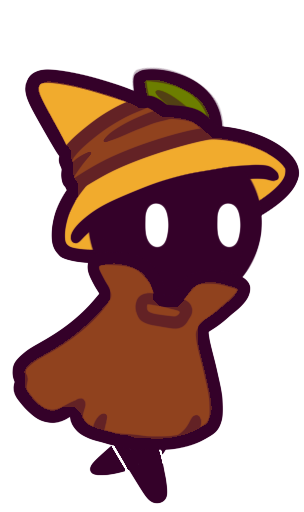
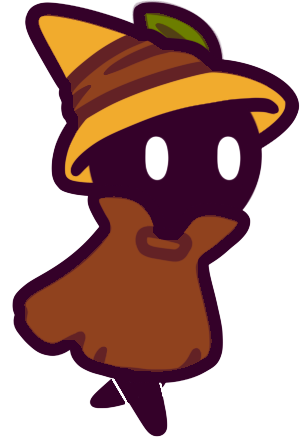
loading...

diff --git a/dino/MainPage.xaml b/dino/MainPage.xaml
@@ -2,6 +2,7 @@
 <ContentPage xmlns="http://schemas.microsoft.com/dotnet/2021/maui"
              xmlns:x="http://schemas.microsoft.com/winfx/2009/xaml"
              x:Class="dino.MainPage"
+             xmlns:FF="clr.namespace:FFImageLoading.Maui;assembly=FFImageLoading.Maui"
              Shell.NavBarIsVisible="False">
 
        <Grid>
@@ -54,12 +55,15 @@
                             HeightRequest="80"/>
               </HorizontalStackLayout>
 
-              <Image Source="player01.png"
-                     x:Name="imgPlayer"
-                     HeightRequest="320"
-                     WidthRequest="100"
-                     HorizontalOptions="Start"
-                     VerticalOptions="End"/>
+              <FF:CachedImageView Source="player01.png"
+                                  CacheType="Disk"
+                                  CacheDuration="365"
+                                  x:Name="imgPlayer"
+                                  Margin="10,0,0,80"
+                                  HeightRequest="150"
+                                  WidthRequest="100"
+                                  HorizontalOptions="Start"
+                                  VerticalOptions="End"/>
 
        </Grid>
 

diff --git a/dino/MainPage.xaml.cs b/dino/MainPage.xaml.cs
@@ -13,6 +13,14 @@ public partial class MainPage : ContentPage
 	int velocidade = 0;
 	int larguraJanela = 0;
 	int alturaJanela = 0;
+	const int forcaGravidade = 6;
+	bool estanoChao = true;
+	bool estanoAr = false;
+	int tempoPulando = 0;
+	int temponoAr = 0;
+	const int forcaPulo = 8;
+	const int maxTempoPulando = 6;
+	const int maxTemponoAr = 4;
 	Player player;
 
 
@@ -21,8 +29,8 @@ public partial class MainPage : ContentPage
 	public MainPage()
 	{
 		InitializeComponent();
-		//player = new Player(imgPlayer);
-		//player.Run();
+		player = new Player(imgPlayer);
+		player.Run();
 	}
 
 	protected override void OnSizeAllocated(double w, double h)
@@ -81,7 +89,7 @@ public partial class MainPage : ContentPage
 		while (!estaMorto)
 		{
 			GerenciaCenarios();
-			//player.Desenha();
+			player.Desenha();
 			await Task.Delay(tempoEntreFrames);
 		}
 	}
@@ -90,7 +98,41 @@ public partial class MainPage : ContentPage
 		base.OnAppearing();
 		Desenha();
 	}
-
+	
+void AplicaGravidade()
+{
+	if (player.GetY() < 0)
+	player.MoveY (forcaGravidade);
+	else if (player.GetY() >=0)
+	{
+		player.SetY (0);
+		estanoChao = true;
+	}
+}
+	void AplicaPulo()
+	{
+		estanoChao = false;
+		if (estaPulando && tempoPulando >= maxTempoPulando)
+		{
+			estaPulando = false;
+			estanoAr = true;
+			temponoAr = 0;
+		}
+		else if (estanoAr && temponoAr >= maxTemponoAr)
+		{
+			estaPulando = false;
+			estanoAr = false;
+			tempoPulando = 0;
+			temponoAr = 0;
+		}
+		else if (estaPulando && tempoPulando < maxTempoPulando)
+		{
+			player.MoveY(-forcaPulo);
+			tempoPulando++;
+		}
+		else if (estanoAr)
+			temponoAr++;
+	}
 
 }
 

diff --git a/dino/Player.cs b/dino/Player.cs
@@ -3,12 +3,12 @@ namespace dino;
 public delegate void Callback();
 public class Player : Animacao
 {
-    public Player(Image a) : base(a)
+    public Player(CachedImageView a) : base(a)
     {
         for (int i = 1; i <= 4; ++i)
-            animacao1.Add($"player {i.ToString("D2")}.png");
+            animacao1.Add($"player{i.ToString("D2")}.png");
         for (int i = 1; i <= 6; ++i)
-            animacao2.Add($"playerdead {i.ToString("D2")}.png");
+            animacao2.Add($"playerdead{i.ToString("D2")}.png");
     }
     public void Run()
     {
@@ -22,5 +22,17 @@ public class Player : Animacao
         loop = false;
         SetAnimacaoAtiva(2);
     }
+    public void MoveY (int s)
+	{
+		compImage.TranslationY += s;	
+	}
+	public double GetY ()
+	{
+		return compImage.TranslationY;
+	}
+	public void SetY (double a)
+	{
+		compImage.TranslationY = a;
+	}
 
 }

diff --git a/dino/Animacao.cs b/dino/Animacao.cs
@@ -9,8 +9,8 @@ public class Animacao
     protected int AnimacaoAtiva = 1;
     bool parado = true;
     int frameAtual = 1;
-    protected Image compImage;
-    public Animacao(Image a)
+    protected CachedImageView imageView;
+    public Animacao(CachedImagrView a)
     {
         compImage = a;
     }

diff --git a/dino/MauiProgram.cs b/dino/MauiProgram.cs
@@ -9,6 +9,7 @@ public static class MauiProgram
 		var builder = MauiApp.CreateBuilder();
 		builder
 			.UseMauiApp<App>()
+			.UseFFImageLoading()
 			.ConfigureFonts(fonts =>
 			{
 				fonts.AddFont("OpenSans-Regular.ttf", "OpenSansRegular");
